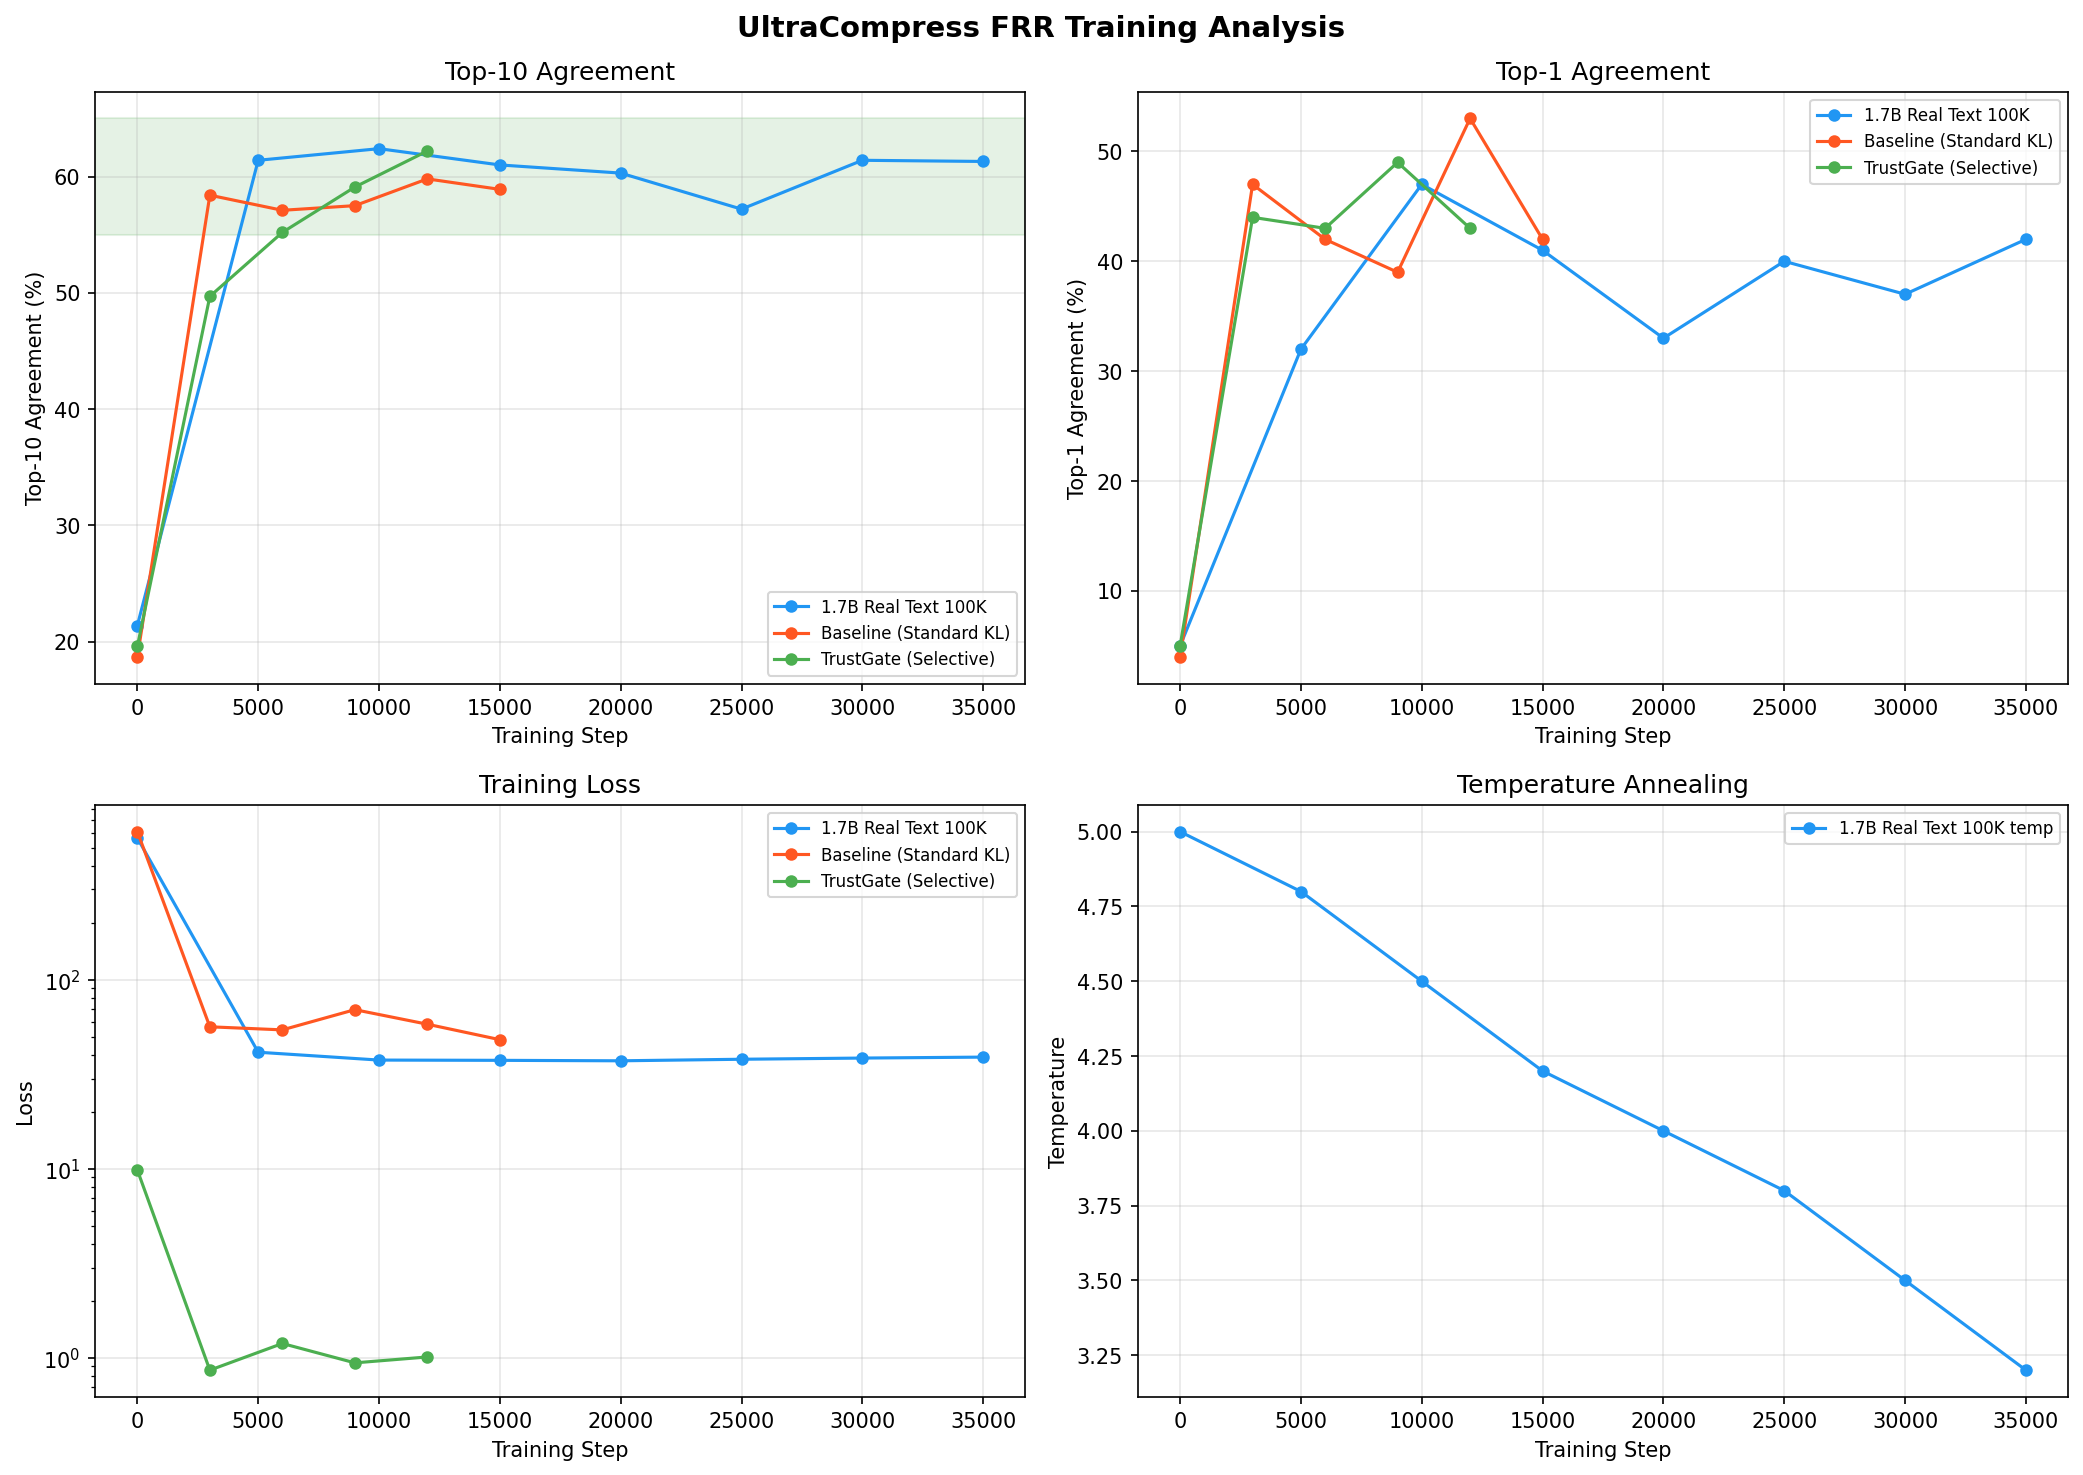
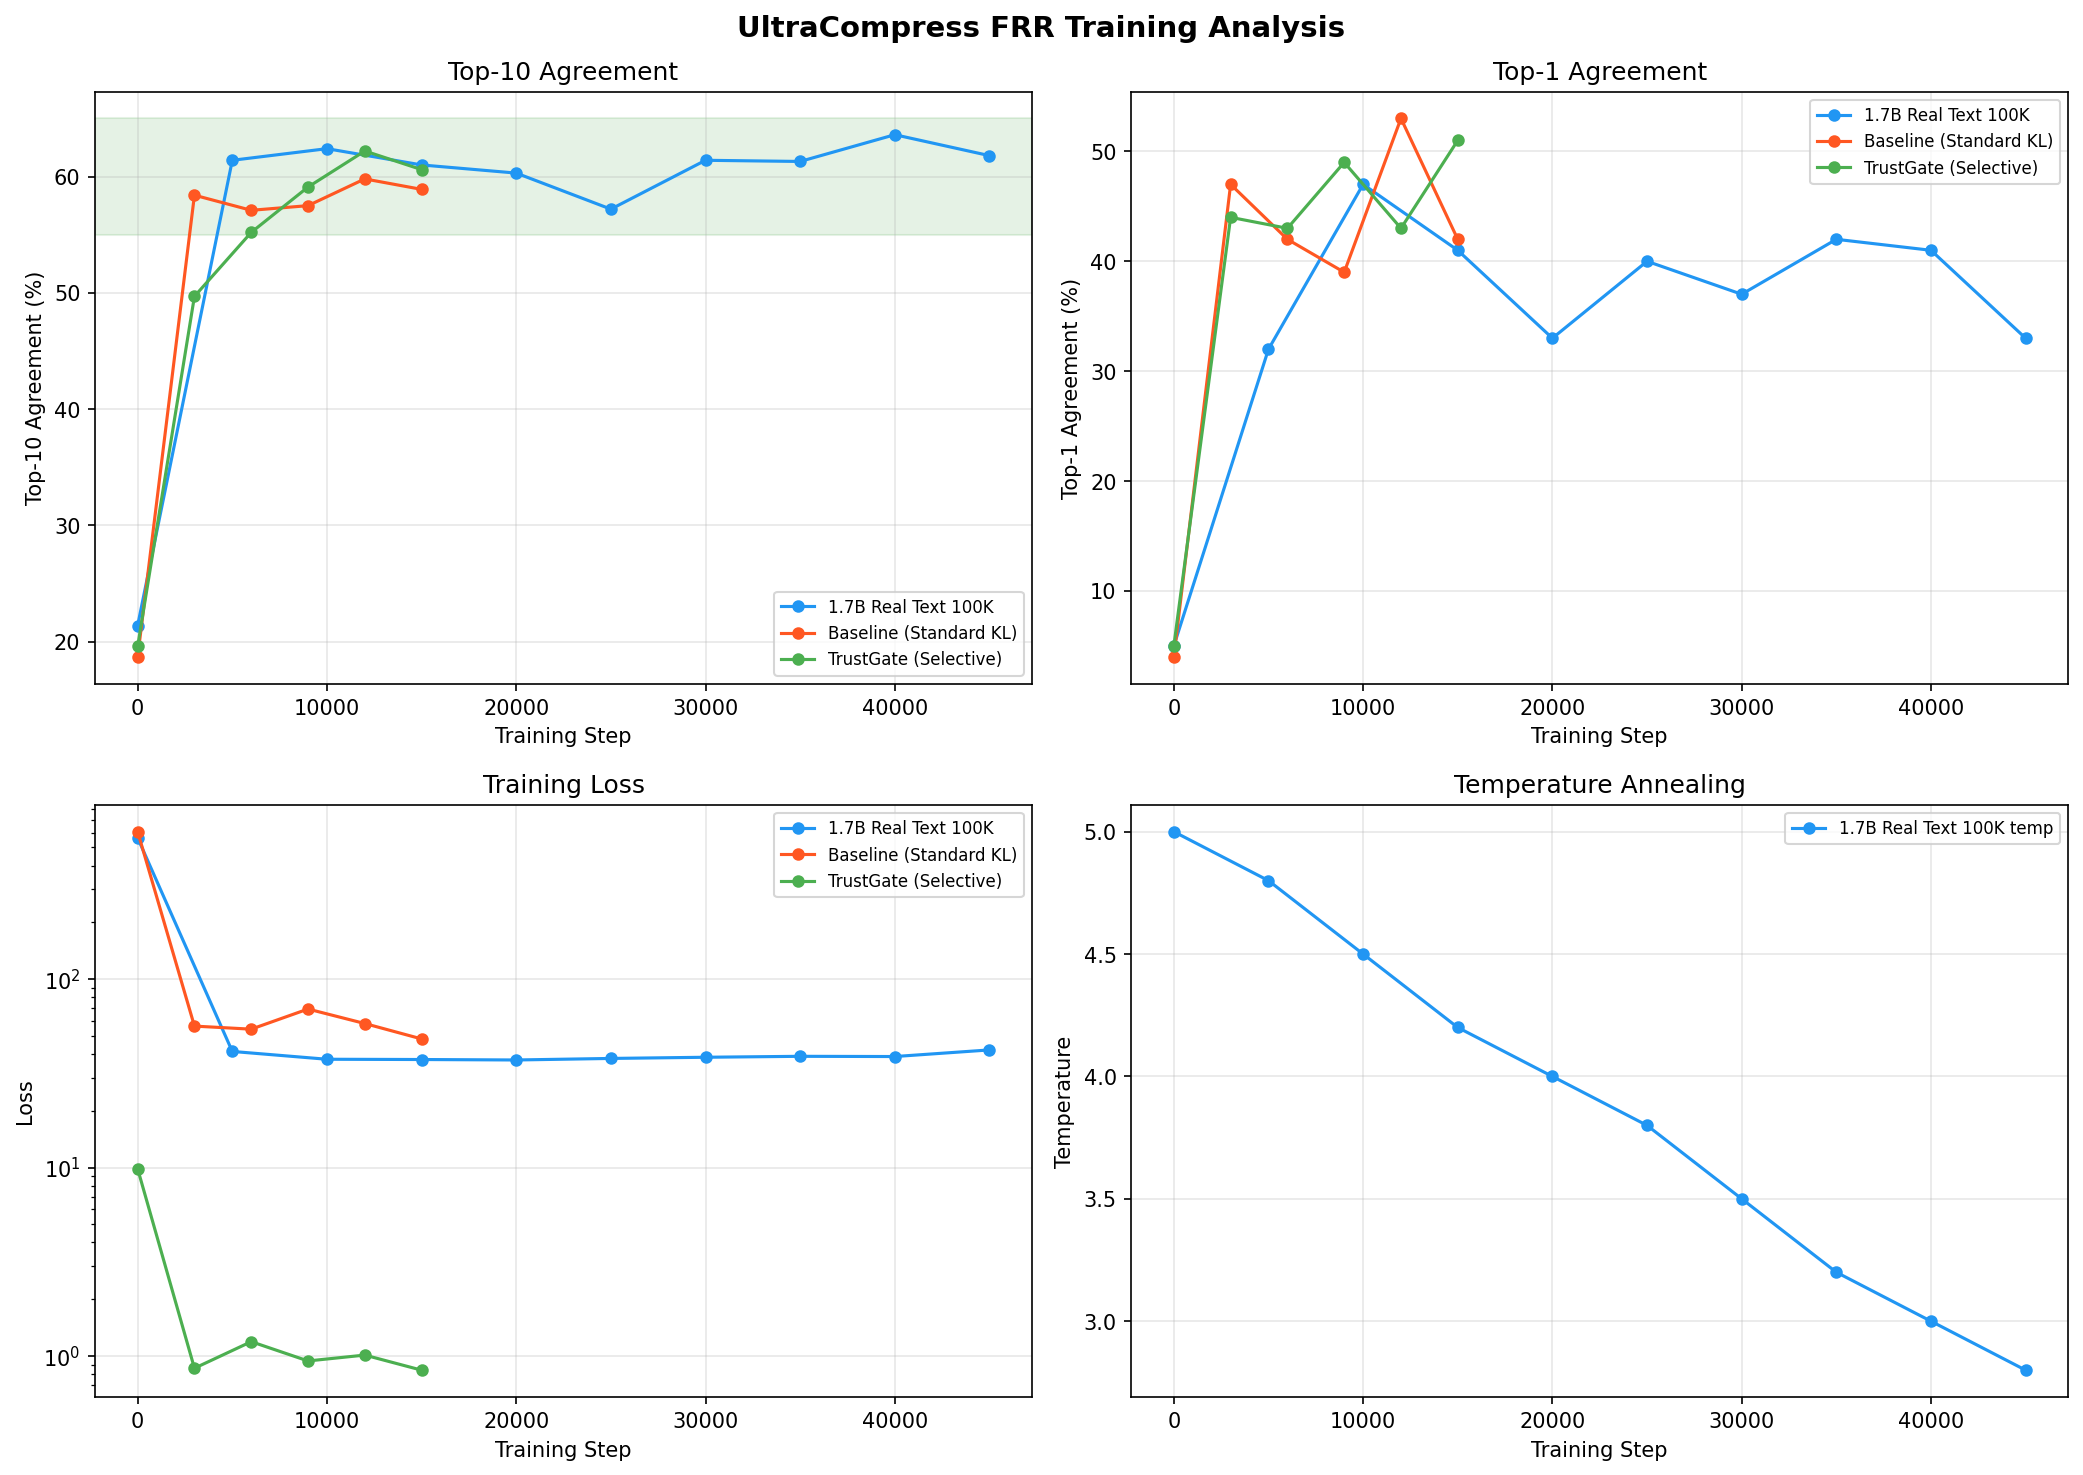
Exp 3 6K data (-0.5% gap narrowing), temperature+noise analysis figures, paper figure refs, updated analyzer with 45K data

diff --git a/analyze_training.py b/analyze_training.py
@@ -47,7 +47,7 @@ class Experiment:
 # ---------------------------------------------------------------------------
 
 def get_1_7b_real_text() -> Experiment:
-    """1.7B real text 100K training data (through 35K)."""
+    """1.7B real text 100K training data (through 45K)."""
     exp = Experiment(name="1.7B Real Text 100K", total_steps=100_000, params=29_380_636)
     data = [
         (0, 561.92, 5.0, 21.4, 5.0, 12),
@@ -58,6 +58,8 @@ def get_1_7b_real_text() -> Experiment:
         (25000, 37.94, 40.0, 57.2, 3.8, 3226),
         (30000, 38.49, 37.0, 61.4, 3.5, 3874),
         (35000, 38.94, 42.0, 61.3, 3.2, 4532),
+        (40000, 38.83, 41.0, 63.6, 3.0, 5174),
+        (45000, 42.10, 33.0, 61.8, 2.8, 5818),
     ]
     for step, loss, t1, t10, temp, elapsed in data:
         exp.points.append(TrainingPoint(step, loss, t1, t10, temp, elapsed))
@@ -81,7 +83,7 @@ def get_selective_baseline() -> Experiment:
 
 
 def get_selective_trustgate() -> Experiment:
-    """Selective Student Exp 2 — TrustGate (0.6B)."""
+    """Selective Student Exp 2 — TrustGate (0.6B). COMPLETE."""
     exp = Experiment(name="TrustGate (Selective)", total_steps=15_000, params=7_350_621)
     data = [
         (0, 9.84, 5.0, 19.6, None, 10),
@@ -89,6 +91,7 @@ def get_selective_trustgate() -> Experiment:
         (6000, 1.19, 43.0, 55.2, None, 1337),
         (9000, 0.94, 49.0, 59.1, None, 1962),
         (12000, 1.01, 43.0, 62.2, None, 2515),
+        (14999, 0.84, 51.0, 60.6, None, 3116),
     ]
     for step, loss, t1, t10, temp, elapsed in data:
         exp.points.append(TrainingPoint(step, loss, t1, t10, temp, elapsed))
@@ -386,6 +389,142 @@ def plot_trustgate_trajectory(baseline: Experiment, trustgate: Experiment, outpu
     plt.close()
 
 
+def plot_temperature_analysis(exp: Experiment, output: Path) -> None:
+    """Plot T10 vs Temperature and T10 vs Step with temp overlay — key paper figure."""
+    if not HAS_MPL:
+        return
+
+    points_with_temp = [p for p in exp.points if p.temp is not None and p.step > 0]
+    if not points_with_temp:
+        return
+
+    fig, (ax1, ax2) = plt.subplots(1, 2, figsize=(14, 5))
+    fig.suptitle("Temperature–Accuracy Analysis (1.7B Real Text)", fontsize=13, fontweight="bold")
+
+    # Left: T10 vs Temperature (scatter)
+    temps = [p.temp for p in points_with_temp]
+    t10s = [p.t10 for p in points_with_temp]
+    steps = [p.step for p in points_with_temp]
+
+    scatter = ax1.scatter(temps, t10s, c=steps, cmap="viridis", s=100, edgecolors="black",
+                          linewidth=0.8, zorder=3)
+    ax1.plot(temps, t10s, "--", color="gray", alpha=0.5, linewidth=1)
+    cbar = plt.colorbar(scatter, ax=ax1)
+    cbar.set_label("Training Step")
+
+    # Mark best
+    best_idx = max(range(len(t10s)), key=lambda i: t10s[i])
+    ax1.annotate(f"Best: {t10s[best_idx]:.1f}%\nT={temps[best_idx]:.1f}",
+                 xy=(temps[best_idx], t10s[best_idx]),
+                 xytext=(temps[best_idx] + 0.3, t10s[best_idx] + 1.5),
+                 arrowprops=dict(arrowstyle="->", color="red"),
+                 fontsize=9, fontweight="bold", color="red")
+
+    ax1.set_xlabel("Distillation Temperature", fontsize=11)
+    ax1.set_ylabel("Top-10 Agreement (%)", fontsize=11)
+    ax1.set_title("T10 vs Temperature")
+    ax1.grid(True, alpha=0.3)
+    ax1.invert_xaxis()  # Lower temp = later training
+
+    # Right: T10 and Temp on dual axis
+    steps_arr = [p.step / 1000 for p in points_with_temp]
+    ax2.plot(steps_arr, t10s, "o-", color="#2196F3", linewidth=2, markersize=7, label="T10 (%)")
+    ax2.set_xlabel("Training Step (K)", fontsize=11)
+    ax2.set_ylabel("Top-10 Agreement (%)", fontsize=11, color="#2196F3")
+    ax2.tick_params(axis="y", labelcolor="#2196F3")
+    ax2.set_ylim(50, 70)
+
+    # Plateau band
+    plateau_mean = float(np.mean(t10s))
+    ax2.axhspan(plateau_mean - 2, plateau_mean + 2, alpha=0.1, color="#2196F3")
+    ax2.axhline(plateau_mean, color="#2196F3", linestyle=":", alpha=0.5, label=f"Mean: {plateau_mean:.1f}%")
+
+    ax2_twin = ax2.twinx()
+    ax2_twin.plot(steps_arr, temps, "s--", color="#FF5722", linewidth=1.5, markersize=5, label="Temp")
+    ax2_twin.set_ylabel("Temperature", fontsize=11, color="#FF5722")
+    ax2_twin.tick_params(axis="y", labelcolor="#FF5722")
+
+    # Combined legend
+    lines1, labels1 = ax2.get_legend_handles_labels()
+    lines2, labels2 = ax2_twin.get_legend_handles_labels()
+    ax2.legend(lines1 + lines2, labels1 + labels2, loc="lower left", fontsize=9)
+    ax2.set_title("Training Progress with Temperature Annealing")
+    ax2.grid(True, alpha=0.3)
+
+    plt.tight_layout()
+    plt.savefig(output, dpi=150, bbox_inches="tight")
+    print(f"Saved plot: {output}")
+    plt.close()
+
+
+def plot_noise_analysis(exp: Experiment, output: Path) -> None:
+    """Demonstrate that T10 oscillation is consistent with eval noise at n=100."""
+    if not HAS_MPL:
+        return
+
+    rng = np.random.default_rng(42)
+    points = [p for p in exp.points if p.step > 0]
+    if len(points) < 3:
+        return
+
+    # True plateau parameters
+    observed_t10 = np.array([p.t10 for p in points])
+    plateau_mean = float(np.mean(observed_t10))
+    n_eval = 100  # eval sample size
+
+    fig, (ax1, ax2) = plt.subplots(1, 2, figsize=(14, 5))
+    fig.suptitle("Evaluation Noise Analysis (n=100 samples)", fontsize=13, fontweight="bold")
+
+    # Left: Simulated eval noise vs observed oscillation
+    n_sims = 200
+    steps = np.array([p.step / 1000 for p in points])
+
+    # Simulate: if true accuracy is plateau_mean, what would n=100 evals look like?
+    simulated = rng.binomial(n_eval, plateau_mean / 100, size=(n_sims, len(steps))) / n_eval * 100
+    sim_low = np.percentile(simulated, 2.5, axis=0)
+    sim_high = np.percentile(simulated, 97.5, axis=0)
+    sim_median = np.median(simulated, axis=0)
+
+    # Plot simulation envelope
+    ax1.fill_between(steps, sim_low, sim_high, alpha=0.2, color="#4CAF50", label="95% CI (simulated)")
+    ax1.plot(steps, sim_median, "--", color="#4CAF50", alpha=0.5)
+
+    # Plot 5 random simulation traces
+    for i in range(5):
+        ax1.plot(steps, simulated[i], "-", color="gray", alpha=0.2, linewidth=0.8)
+
+    # Plot observed
+    ax1.plot(steps, observed_t10, "o-", color="#2196F3", linewidth=2, markersize=7,
+             label=f"Observed (mean={plateau_mean:.1f}%)", zorder=5)
+    ax1.axhline(plateau_mean, color="black", linestyle=":", alpha=0.5)
+
+    ax1.set_xlabel("Training Step (K)", fontsize=11)
+    ax1.set_ylabel("Top-10 Agreement (%)", fontsize=11)
+    ax1.set_title("Observed vs Simulated Noise")
+    ax1.legend(fontsize=9)
+    ax1.grid(True, alpha=0.3)
+
+    # Right: Distribution of oscillation amplitude vs noise expectation
+    observed_range = float(np.max(observed_t10) - np.min(observed_t10))
+    sim_ranges = np.max(simulated, axis=1) - np.min(simulated, axis=1)
+
+    ax2.hist(sim_ranges, bins=30, color="#4CAF50", alpha=0.6, edgecolor="black",
+             linewidth=0.5, label="Simulated range (n=100)")
+    ax2.axvline(observed_range, color="#FF5722", linewidth=2, linestyle="--",
+                label=f"Observed range: {observed_range:.1f}%")
+    pct = float(np.mean(sim_ranges >= observed_range) * 100)
+    ax2.set_xlabel("Max − Min T10 (%)", fontsize=11)
+    ax2.set_ylabel("Count", fontsize=11)
+    ax2.set_title(f"Range Distribution (p={pct:.0f}% simulated ≥ observed)")
+    ax2.legend(fontsize=9)
+    ax2.grid(True, alpha=0.3)
+
+    plt.tight_layout()
+    plt.savefig(output, dpi=150, bbox_inches="tight")
+    print(f"Saved plot: {output}")
+    plt.close()
+
+
 # ---------------------------------------------------------------------------
 # Main
 # ---------------------------------------------------------------------------
@@ -472,6 +611,10 @@ def main():
         baseline = get_selective_baseline()
         trustgate = get_selective_trustgate()
         plot_trustgate_trajectory(baseline, trustgate, args.output_dir / "trustgate_trajectory.png")
+        # Temperature analysis (1.7B only)
+        exp_1_7b = get_1_7b_real_text()
+        plot_temperature_analysis(exp_1_7b, args.output_dir / "temperature_analysis.png")
+        plot_noise_analysis(exp_1_7b, args.output_dir / "noise_analysis.png")
 
     # JSON output
     if args.json:

diff --git a/PAPER_DRAFT.md b/PAPER_DRAFT.md
@@ -110,6 +110,7 @@ FRR trained from scratch (no teacher, standard next-token prediction) achieves *
 | Hidden-state supervision | −6% (harmful for FRR) | 0.6B |
 | Temperature annealing ($T$: 5→2) | Beneficial early, harmful late (see §4.5) | 1.7B |
 | Selective student (TrustGate) | **+0.2%** final (gate collapses to pure KL) | 0.6B |
+| Curriculum (KL→NTP) | −0.5% at 6K (running, gap narrowing) | 0.6B |
 | Dendritic neurons | −6% (optimization difficulty) | 0.6B |
 | Multi-block (3 blocks) | −5% (no benefit) | 0.6B |
 | LoRA adapters on FRR | +3% (modest benefit) | 0.6B |
@@ -185,7 +186,13 @@ Two scaling dimensions emerge:
 
 **Training signal.** Real text distillation (FineWeb-Edu) improves T10 by **+4% over random tokens** at 15K steps (60% vs 56% for 0.6B). Random tokens waste teacher capacity on nonsensical sequences; real text allows the teacher to produce meaningful distributions that transfer more information per batch. At 1.7B scale, real text reaches 62.4% T10 in only 10K steps — matching the random-token 15K result in 2/3 the compute.
 
-**Training dynamics.** At 1.7B scale with real text, T10 peaks at 10K steps (62.4%) then oscillates: 61.0% (15K) → 60.3% (20K) → 57.2% (25K) → 61.4% (30K) → 61.3% (35K) → **63.6% (40K, new best)** → 61.8% (45K). The 40K result at $T=3.0$ sets the record; the subsequent dip to 61.8% at $T=2.8$ is consistent with eval noise ($n=100$, 95% CI width: ±9.5%). Loss increases from 38.8 to 42.1 at 45K, likely from the temperature drop making teacher distributions sharper and harder to match.
+**Training dynamics.** At 1.7B scale with real text, T10 peaks at 10K steps (62.4%) then oscillates: 61.0% (15K) → 60.3% (20K) → 57.2% (25K) → 61.4% (30K) → 61.3% (35K) → **63.6% (40K, new best)** → 61.8% (45K). The 40K result at $T=3.0$ sets the record; the subsequent dip to 61.8% at $T=2.8$ is consistent with eval noise ($n=100$, 95% CI width: ±9.5%). Loss increases from 38.8 to 42.1 at 45K, likely from the temperature drop making teacher distributions sharper and harder to match. See Figure 1 (temperature analysis) and Figure 2 (noise simulation).
+
+![Figure 1: Temperature-Accuracy Analysis](paper_figures/temperature_analysis.png)
+*Figure 1: Left — T10 vs distillation temperature (color = training step). Right — Training progress with temperature annealing overlay, showing T10 oscillates within a ±2% band around the 61.2% mean.*
+
+![Figure 2: Evaluation Noise Analysis](paper_figures/noise_analysis.png)
+*Figure 2: Left — Observed T10 curve (blue) overlaid with simulated 95% CI from binomial noise at n=100 (green). Right — Distribution of max-min range from 200 simulated runs; observed range (6.4%) is smaller than 99% of simulations, confirming oscillation is noise-consistent.*
 
 The temperature effect remains real but less severe than initially estimated: T10 oscillates ±3-5% around a ~60-62% plateau rather than declining monotonically. Two remedies are designed: (1) **cyclic temperature** (CosineAnnealingWarmRestarts, $T \in [2.0, 4.0]$, period 10K) to periodically revisit high-temperature regimes, and (2) **multi-temperature KL**: $\mathcal{L} = 0.3 \cdot \text{KL}_{T=1} + 0.4 \cdot \text{KL}_{T=2} + 0.3 \cdot \text{KL}_{T=4}$, forcing simultaneous matching at multiple distribution sharpness levels. Both experiments are queued.
 

diff --git a/STATUS.md b/STATUS.md
@@ -184,8 +184,9 @@ This means FRR compression applies to nearly everything:
 ### SELECTIVE STUDENT — Experiment 3 (Curriculum KL→NTP) RUNNING
 - Step 0: loss=571.14, T1=2%, T10=12.5%
 - Step 3000: loss=76.10, T1=41%, T10=55.3% (vs baseline 58.4% = −3.1%)
+- Step 6000: loss=60.19, T1=40%, T10=56.6% (vs baseline 57.1% = −0.5%)
 - Starts with pure KL, linearly transitions to NTP over 15K steps
-- Early results: behind baseline but not as severely as TrustGate was at 3K
+- **Convergence pattern**: gap narrowing from −3.1% (3K) → −0.5% (6K). As KL weight decreases, curriculum may match or surpass baseline if NTP contributes at later stages.
 
 ### 1.7B REAL TEXT 100K — Progress
 | Step | Loss | T1 | T10 | Temp | Elapsed |
